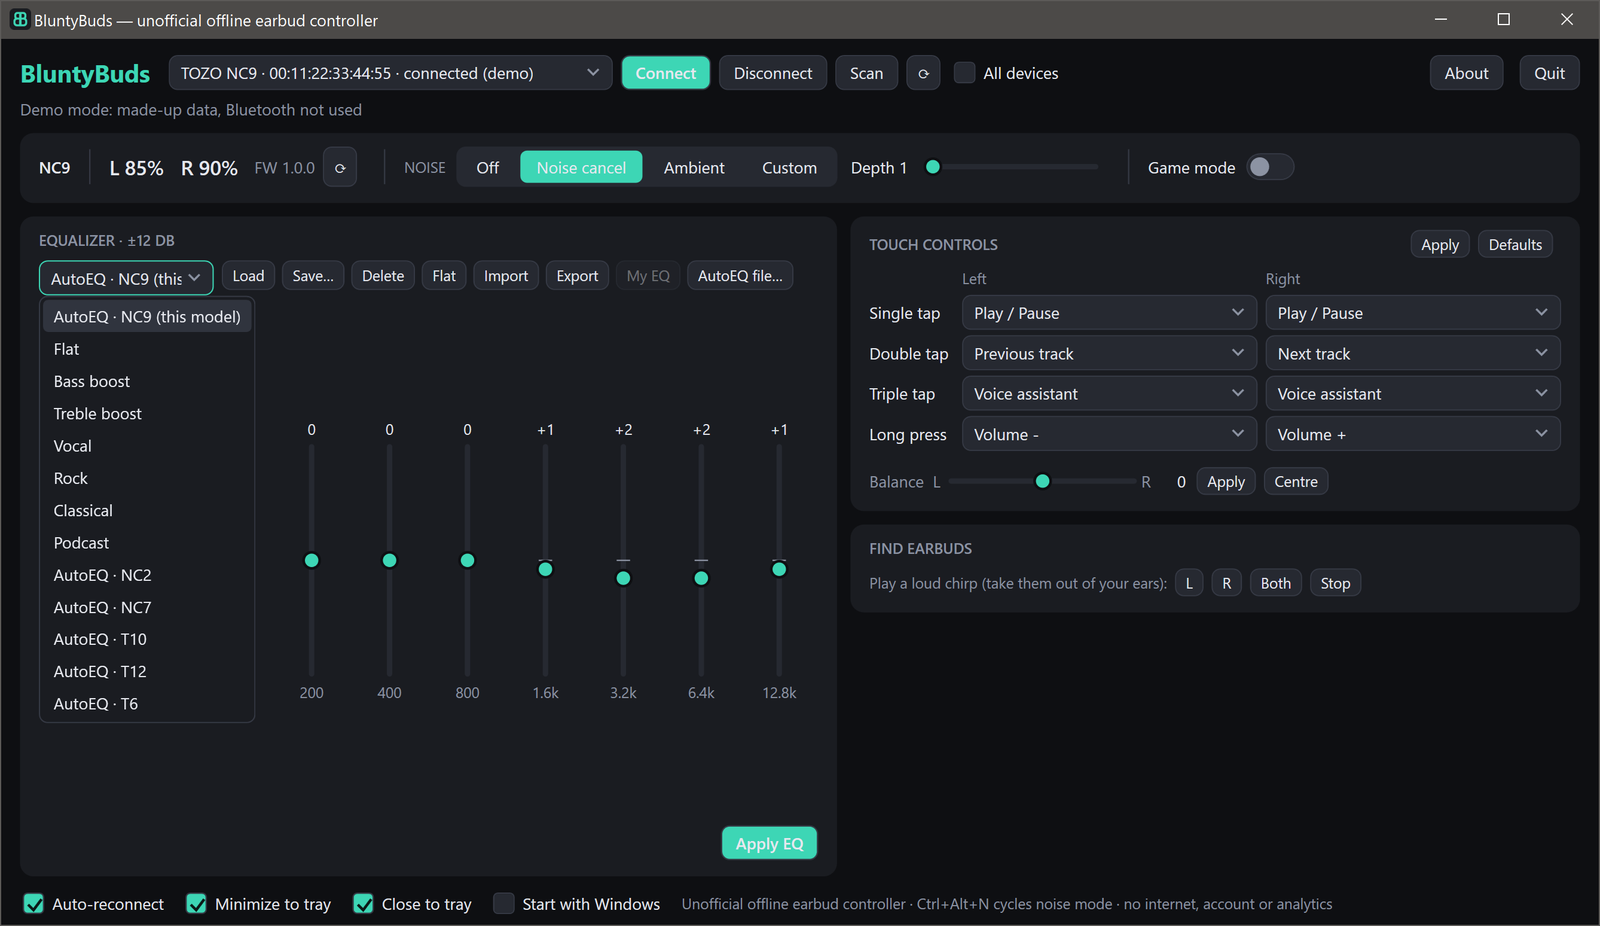
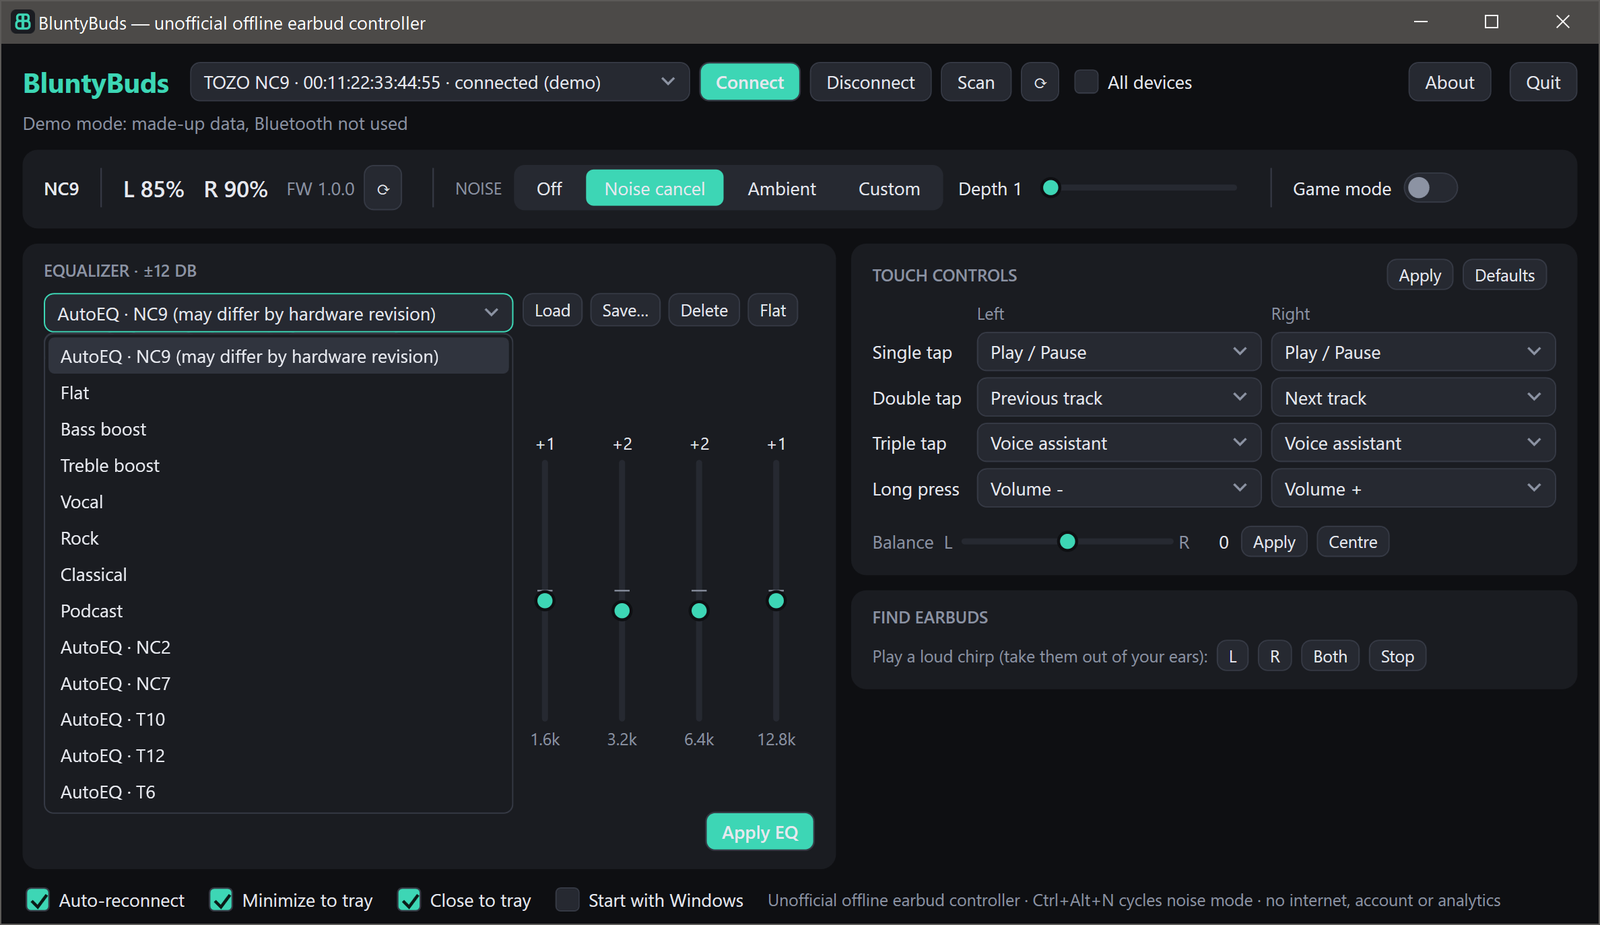
Docs: 1.4.1 demo screenshots (+ touch controls), Android install section, fastlane AutoEQ headroom; Windows: wider preset box so AutoEQ labels aren't cut off

diff --git a/windows/BluntyBuds.Win/MainWindow.cs b/windows/BluntyBuds.Win/MainWindow.cs
@@ -274,7 +274,7 @@ public sealed class MainWindow : Window
             EqLabel(i);
             eqGrid.Children.Add(col);
         }
-        _presetBox.Width = 130;
+        _presetBox.Width = 310; // fits "AutoEQ · <model> (may differ by hardware revision)"; the tool row wraps on narrow windows
         var eqTools = WrapRow(_presetBox, new Border { Width = 6 }, B("Load", (_, _) => LoadPreset(), small: true), B("Save…", (_, _) => SavePreset(), small: true),
             B("Delete", (_, _) => DeletePreset(), small: true), B("Flat", (_, _) => SetEq(new float[10]), small: true),
             B("Import", (_, _) => ImportPresets(), small: true), B("Export", (_, _) => ExportPresets(), small: true), _restoreEq,

diff --git a/README.md b/README.md
@@ -22,6 +22,10 @@ Download from [Releases](https://github.com/arkivx0/BluntyBuds/releases/latest):
 
 Both need Windows 10 (19041) or later, x64. No .NET install required.
 
+## Install on Android
+Download **`BluntyBuds-<version>.apk`** from [Releases](https://github.com/arkivx0/BluntyBuds/releases/latest) and install it
+(allow installs from your browser or file manager when asked). Android 10 or later. The app has no INTERNET permission.
+
 ## Features
 - Model auto-detection; only supported controls are shown
 - Battery and firmware readout
@@ -49,6 +53,8 @@ Without it the release APK is built unsigned.
 
 ## Screenshots
 ![AutoEQ profiles in the preset list (demo mode, made-up data)](docs/autoeq-presets.png)
+
+![Touch-control mapping (demo mode, made-up data)](docs/touch-controls.png)
 
 ## Model support
 

diff --git a/CHANGELOG.md b/CHANGELOG.md
@@ -1,5 +1,9 @@
 # Changelog
 
+## Unreleased
+- Windows: the preset box is wider so long AutoEQ labels ("AutoEQ · NC9 (may differ by hardware revision)") are no longer cut off; the EQ tool row wraps on narrow windows.
+- Docs: screenshots recaptured for 1.4.1 (demo mode).
+
 ## 1.4.1
 - AutoEQ headroom: profiles no longer boost. Every fit (built-in profiles and imported files) is shifted down so the highest band is at most 0 dB, then clamped to ±12 dB and quantized to 0.5 dB. Built-in profiles regenerated (they boosted up to +7.5 dB with no preamp before).
 - Import AutoEQ file: the ParametricEQ.txt "Preamp" line is now honored; the 0 dB ceiling is still enforced.
